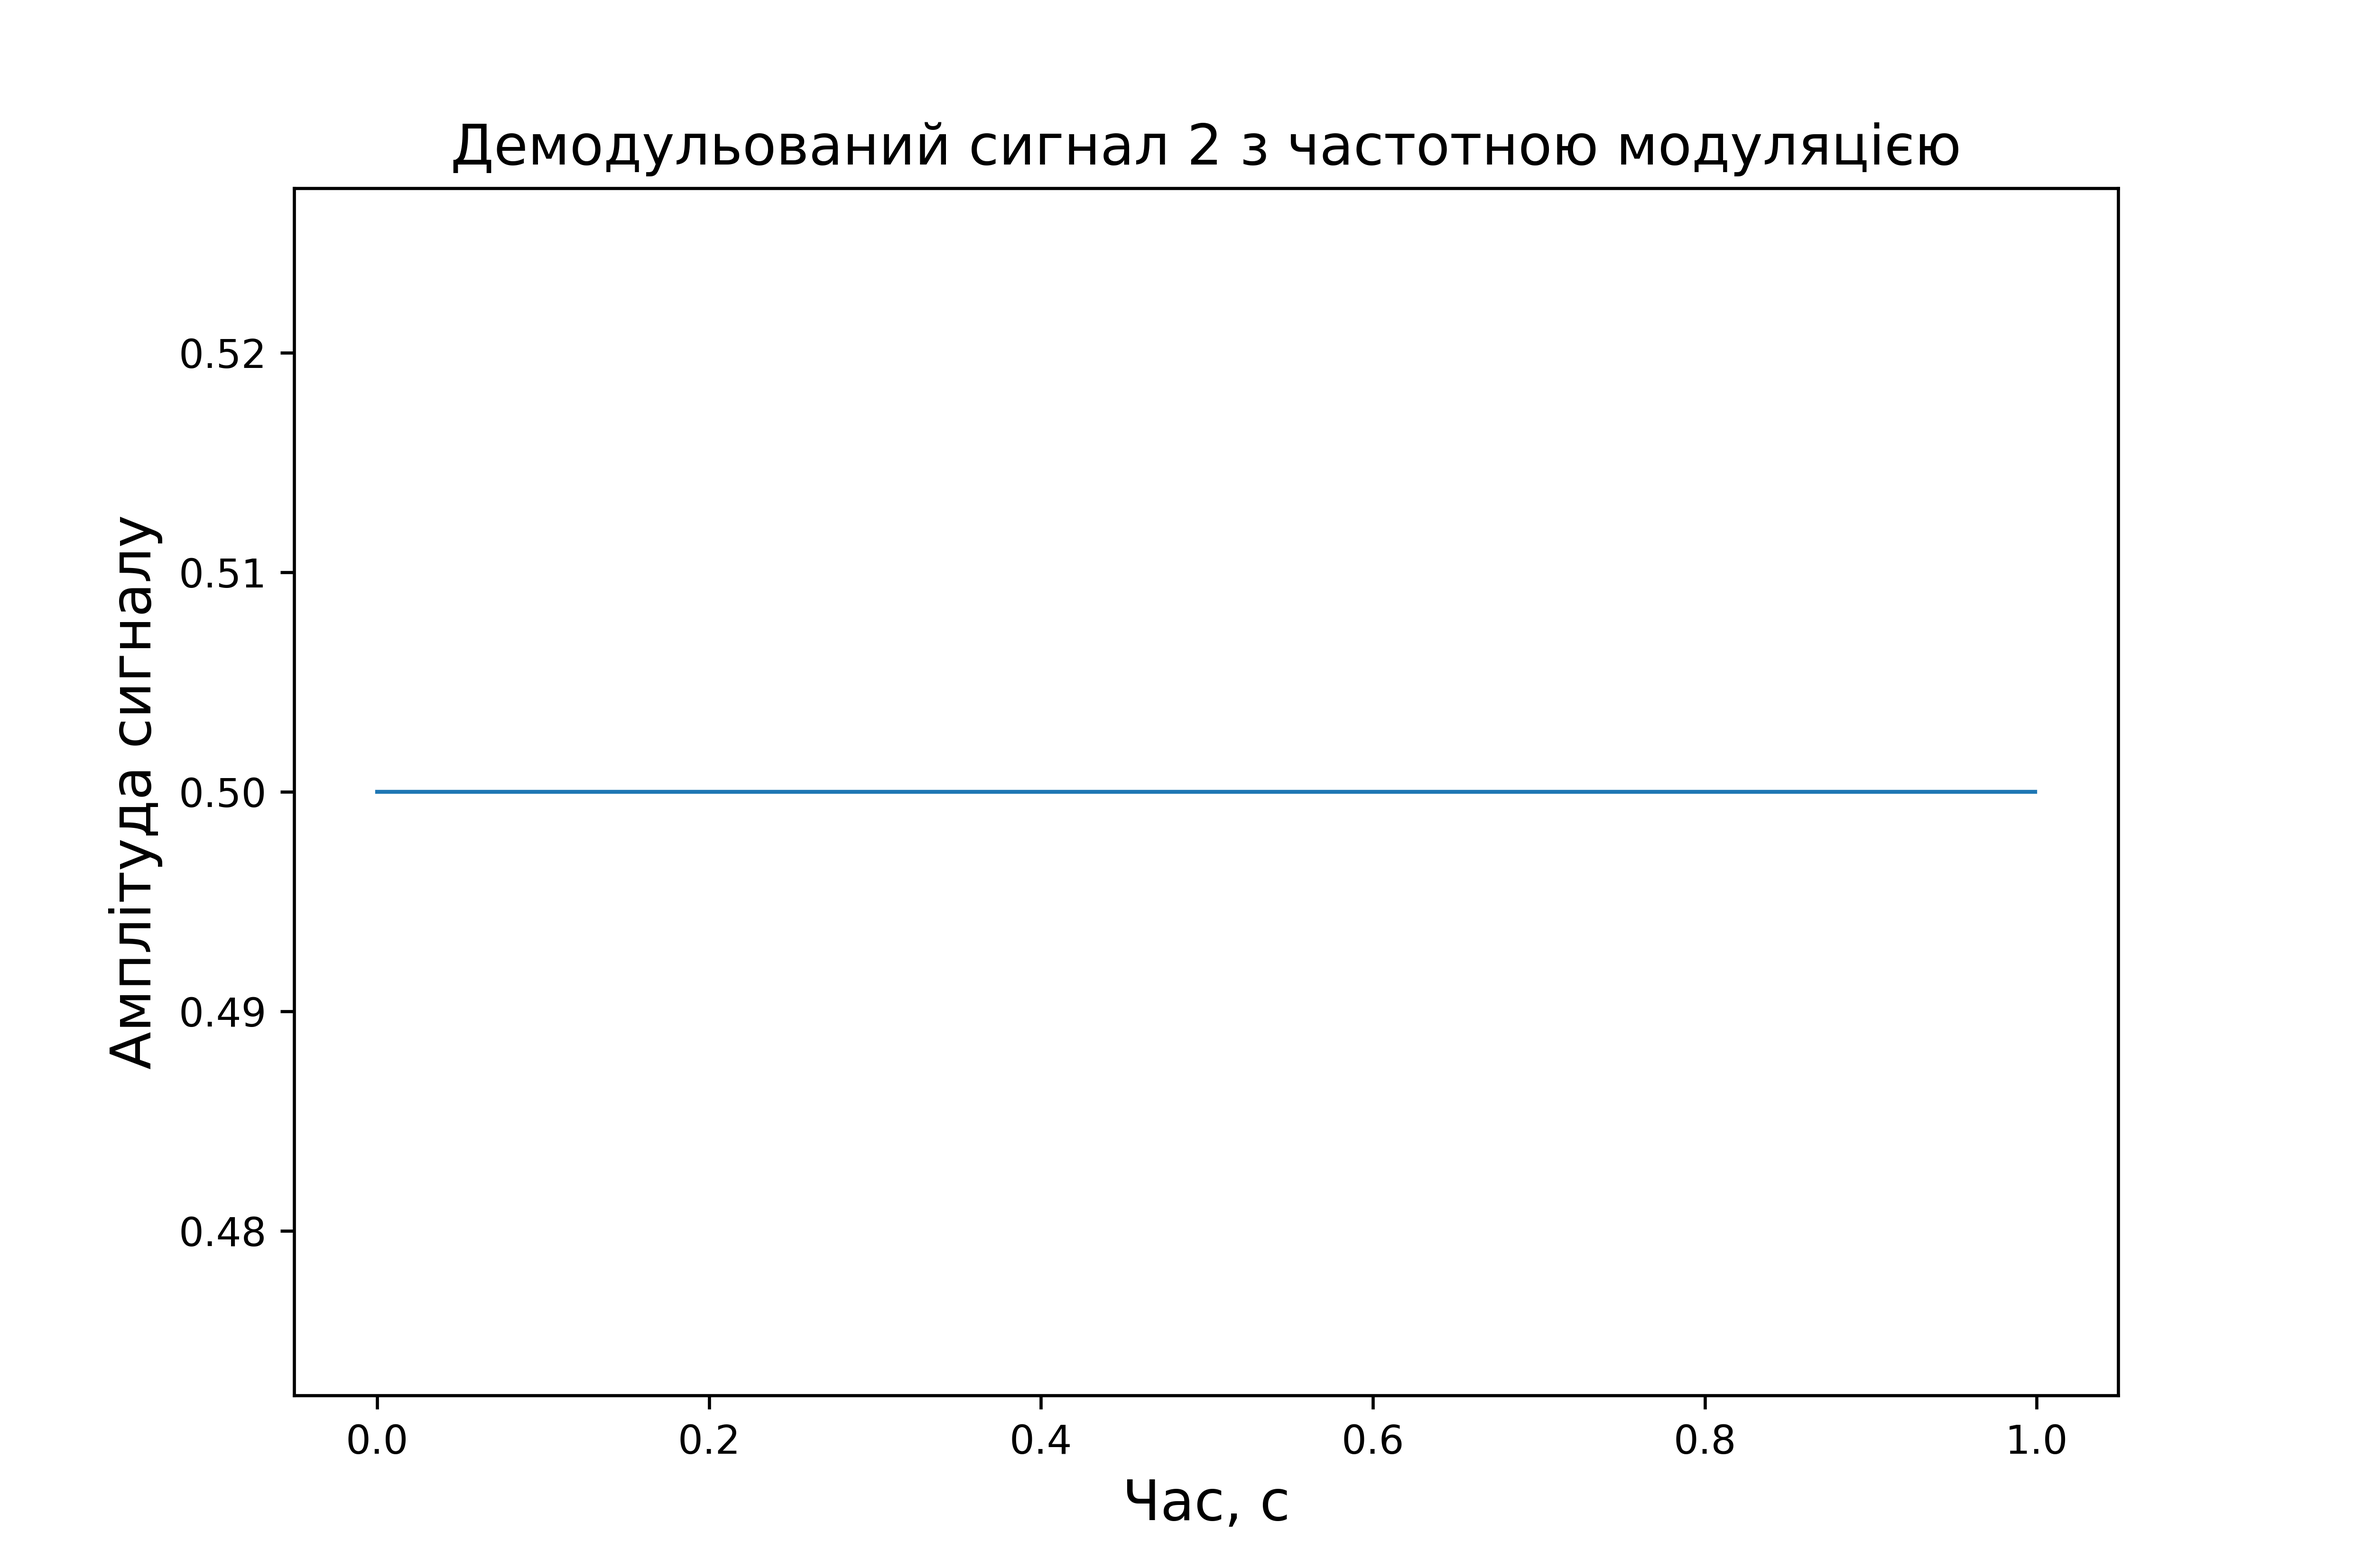
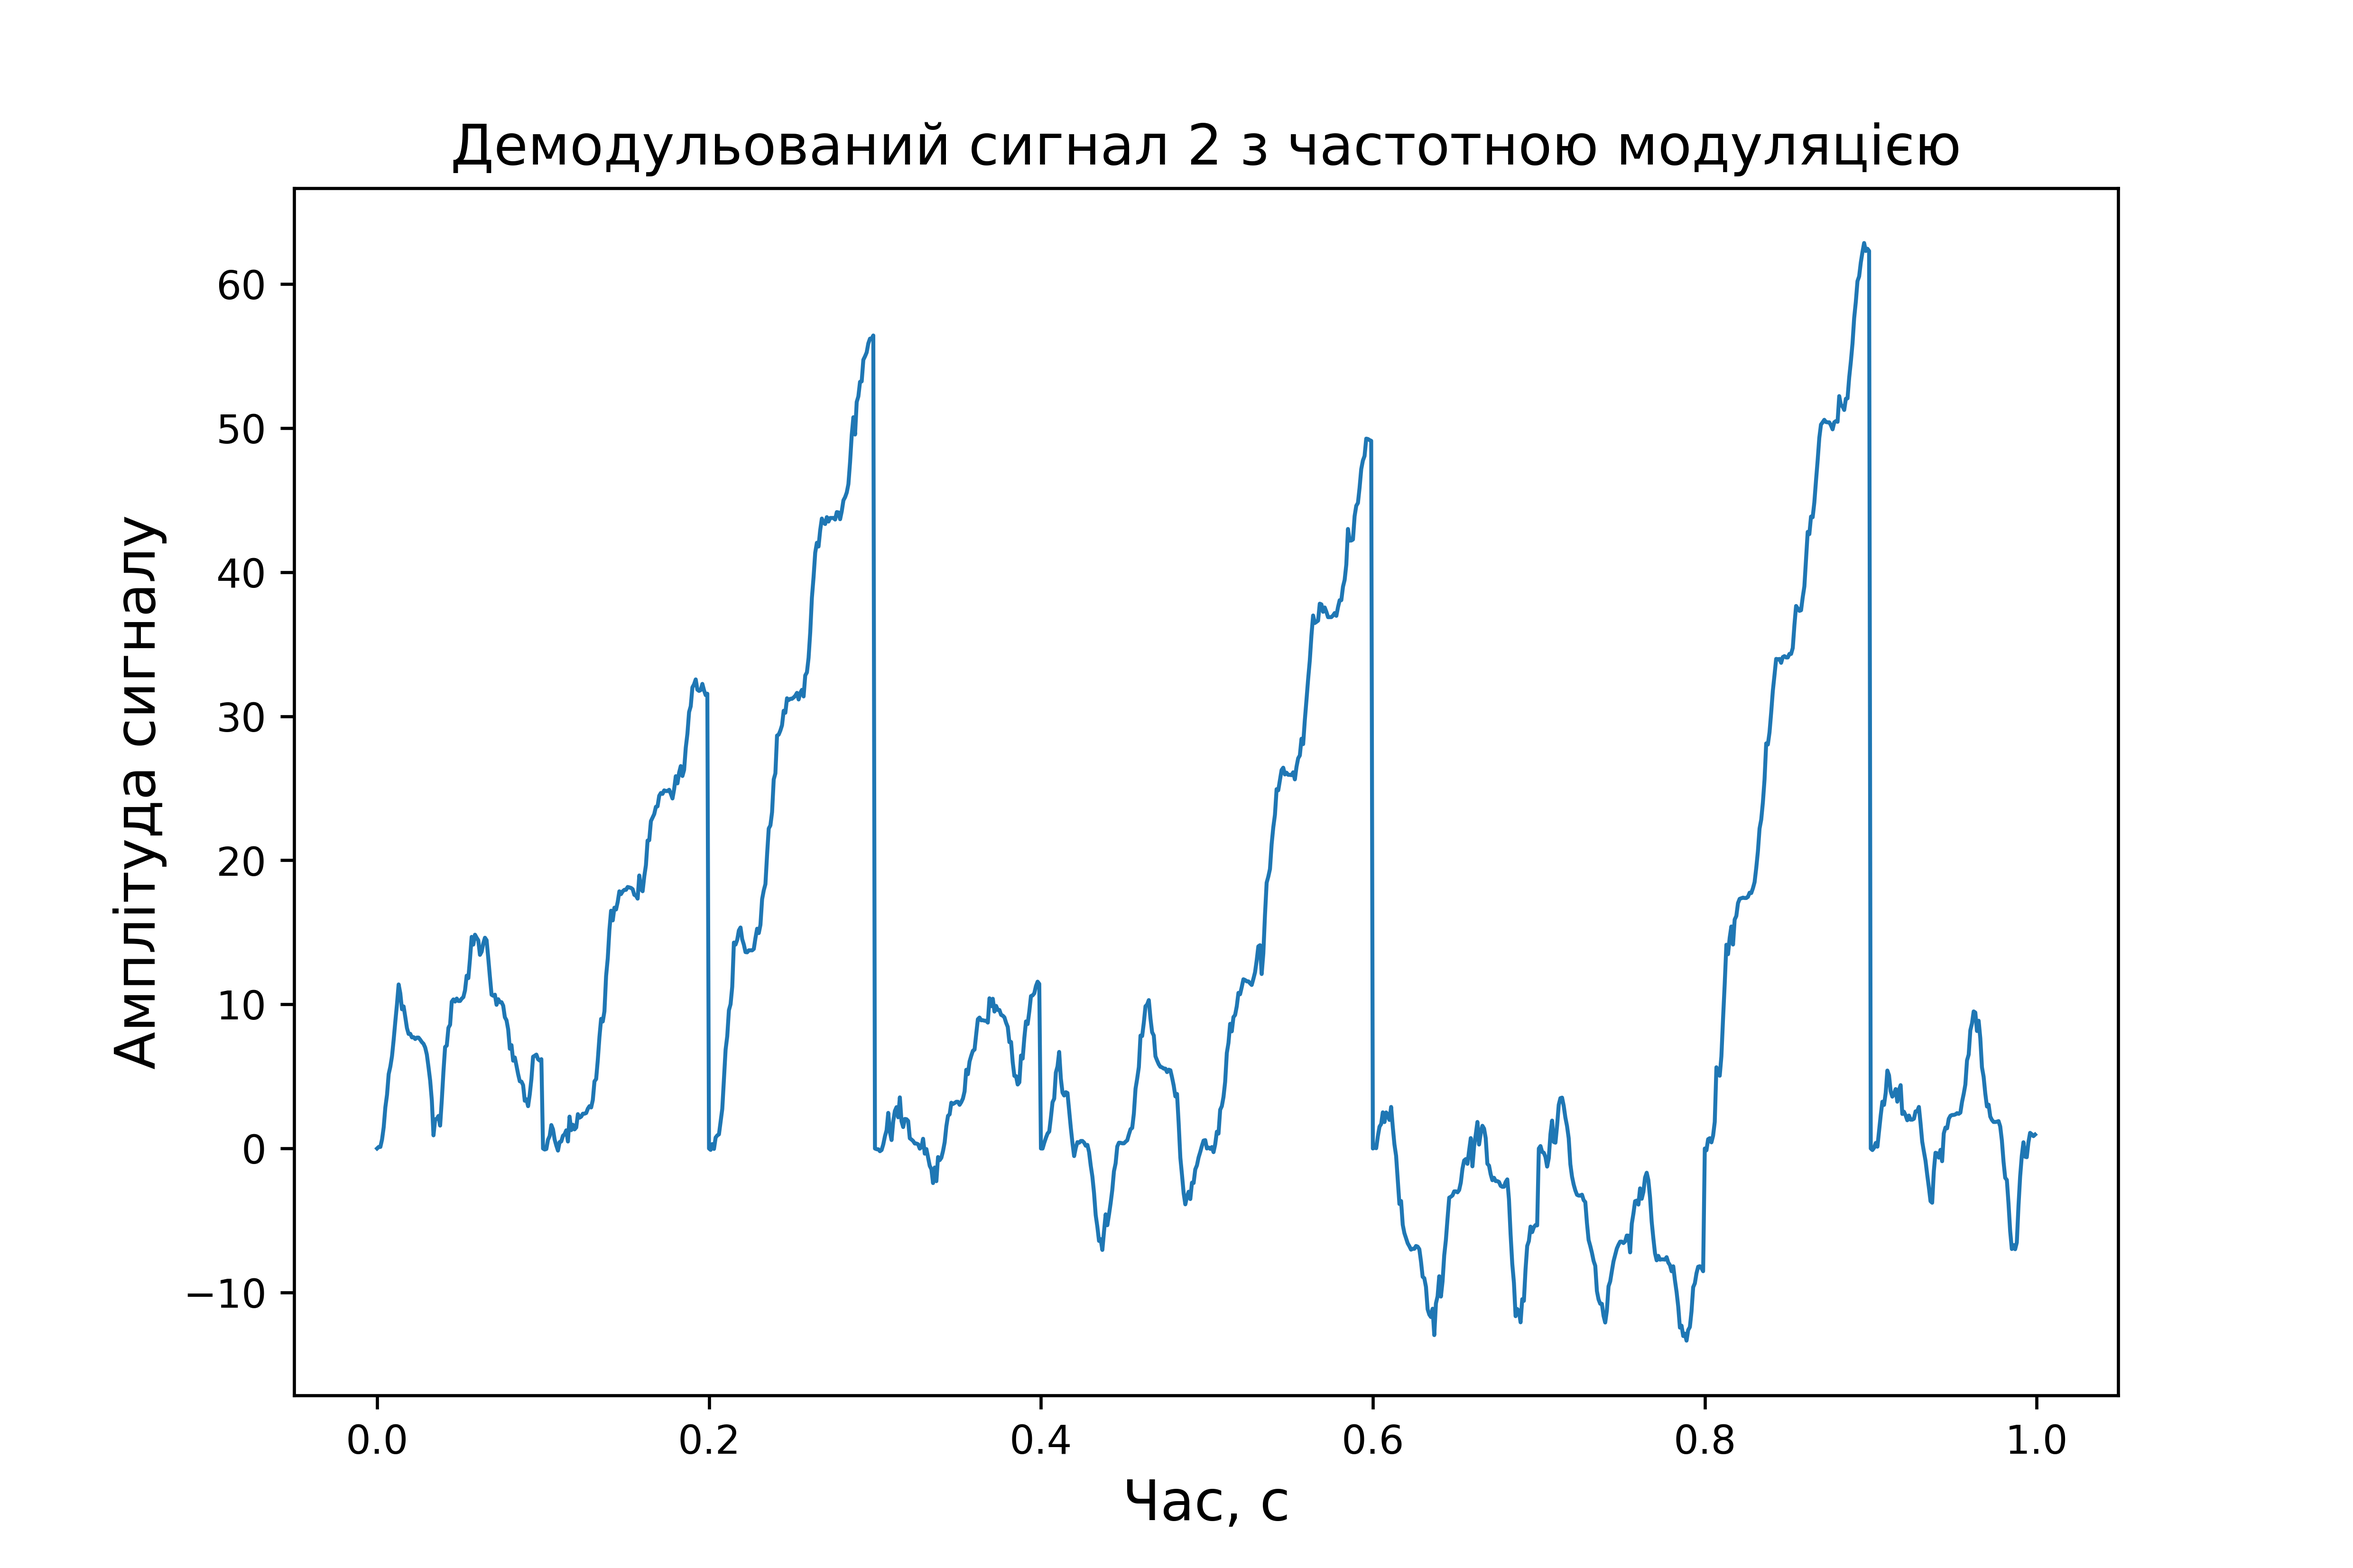
ChannelCoding, 2.2

diff --git a/ChannelCoding/Modulation.py b/ChannelCoding/Modulation.py
@@ -51,7 +51,8 @@ class Modulation:
 
     @classmethod
     def ask_demodulation(cls, frequency, sequence):
-        ask_demodulated_signal = sequence_demodulated = np.zeros(1000)
+        ask_demodulated_signal = np.zeros(1000)
+        sequence_demodulated = np.zeros(1000)
         threshold = np.ones(1000) * 25
         ask_product = [sequence[i] * cos(2 * pi * frequency * i / 1000) for i in range(0, len(sequence))]
         for i in range(0, 10):
@@ -95,9 +96,14 @@ class Modulation:
 
     @classmethod
     def fsk_demodulation(cls, frequency1, frequency2, sequence):
-        fskDemodulatedSignal1 = fskDemodulatedSignal2 = sequenceDemodulated = np.zeros(1000)
-        fskProduct1 = [sequence[i] * sin(2 * pi * frequency1 * i / 1000) for i in range(0, len(sequence))]
-        fskProduct2 = [sequence[i] * sin(2 * pi * frequency2 * i / 1000) for i in range(0, len(sequence))]
+        fskDemodulatedSignal1 = np.zeros(1000)
+        fskDemodulatedSignal2 = np.zeros(1000)
+        sequenceDemodulated = np.zeros(1000)
+        fskProduct1 = np.zeros(1000)
+        fskProduct2 = np.zeros(1000)
+        for i in range(0, len(sequence)):
+            fskProduct1[i] = sequence[i] * sin(2 * pi * frequency1 * i / 1000)
+            fskProduct2[i] = sequence[i] * sin(2 * pi * frequency2 * i / 1000)
         for i in range(0, 10):
             S1 = 0
             S2 = 0
@@ -156,7 +162,7 @@ class Modulation:
                      [xSpectrumPsk, spectrum_sequence_psk], [x, sequenceFsk], [xSpectrumFsk, spectrum_sequence_fsk],
                      [x, sequenceAskNoise], [x, sequencePskNoise], [x, sequenceFskNoise], [x, askDemodulatedSignal],
                      [x, sequenceDemodulatedAsk], [x, pskDemodulatedSignal], [x, sequenceDemodulatedPsk],
-                     [x, fskDemodulatedSignal1], [x, fskDemodulatedSignal1], [x, sequence_demodulated_fsk]]
+                     [x, fskDemodulatedSignal1], [x, fskDemodulatedSignal2], [x, sequence_demodulated_fsk]]
         labels = [("Час, c", "Амплітуда сигналу", "Згенерована випадкова послідовність"),
                   ("Час, c", "Амплітуда сигналу", "Амплітудна модуляція"),
                   ("Частота, Гц", "Амплітуда спектру", "Спектр при амплітудній модуляції"),
@@ -172,7 +178,8 @@ class Modulation:
                   ("Час, c", "Амплітуда сигналу", "Демодульований сигнал з фазовою модуляцією"),
                   ("Час, c", "Амплітуда сигналу", "Демодульована послідовність з фазовою модуляцією"),
                   ("Час, c", "Амплітуда сигналу", "Демодульований сигнал 1 з частотною модуляцією"),
-                  ("Час, c", "Амплітуда сигналу", "Демодульований сигнал 2 з частотною модуляцією")]
+                  ("Час, c", "Амплітуда сигналу", "Демодульований сигнал 2 з частотною модуляцією"),
+                  ("Час, c", "Амплітуда сигналу", "Демодульована послідовність з частотною модуляцією")]
         for key, value in zip(sequences, labels):
             self.plot(key[0], key[1], value[0], value[1], value[2])
         errors = (self.noise_stress(sequence, sequenceAsk, "ASK", [self.ask]),
